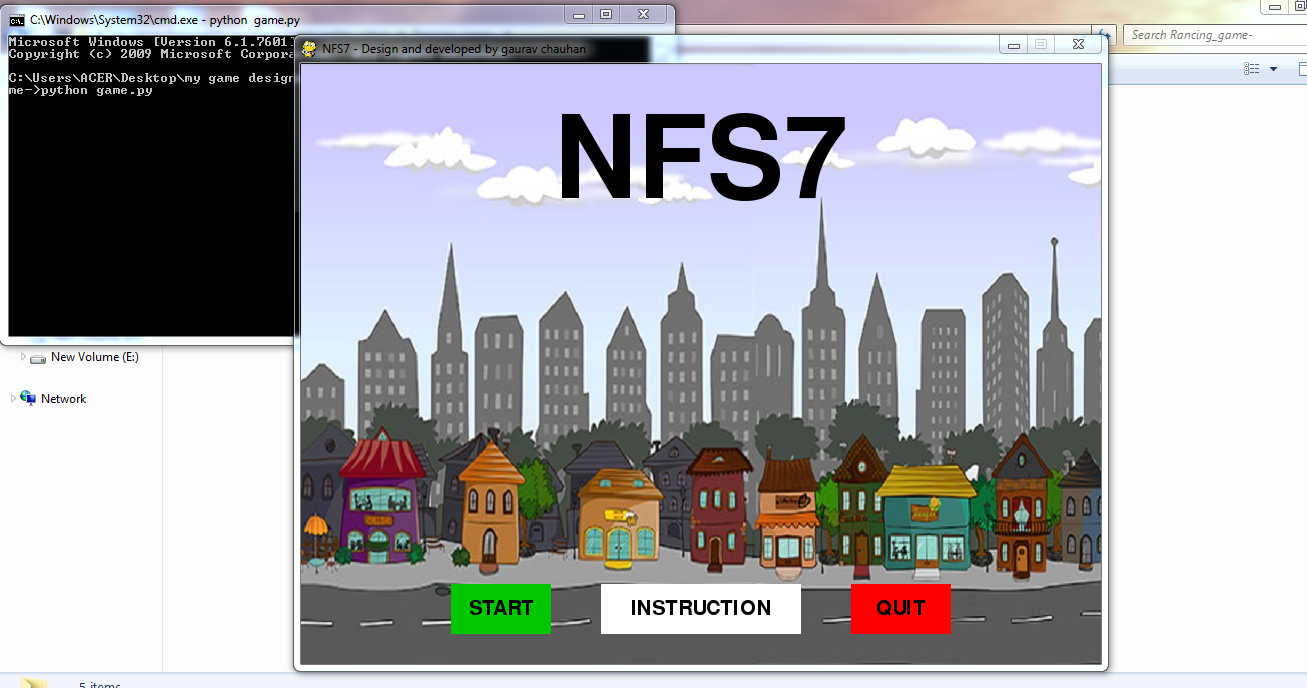
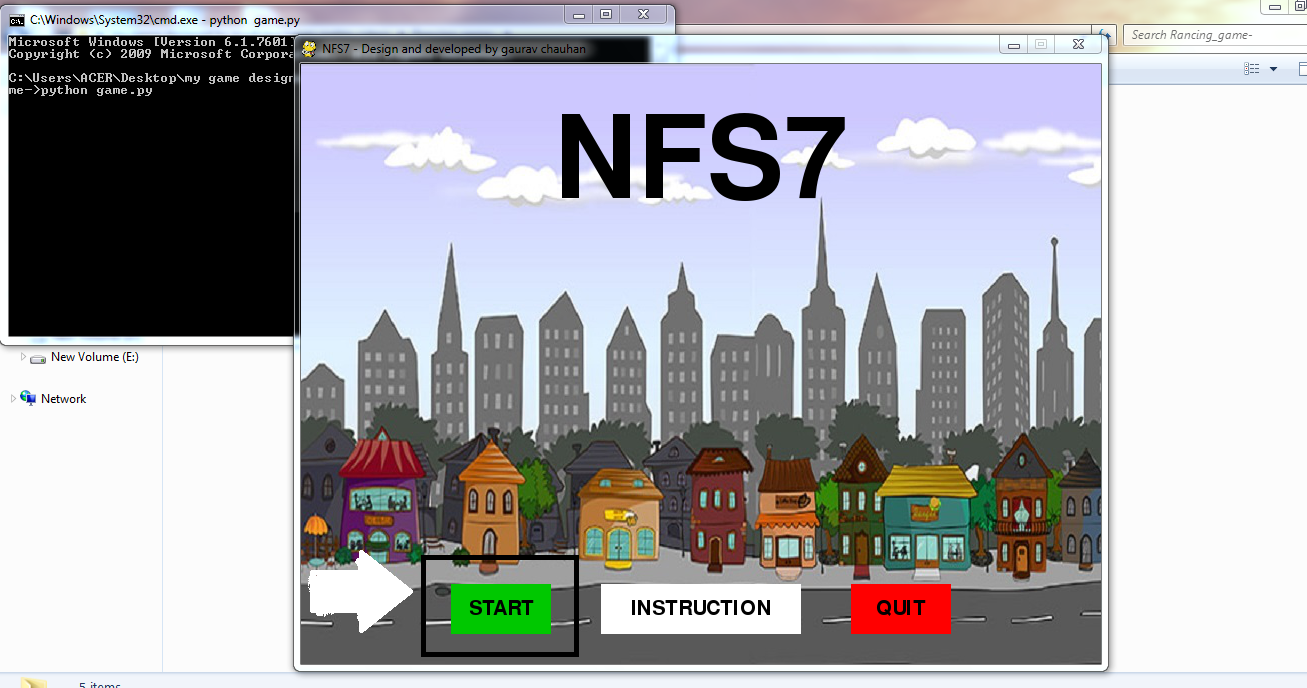
add readmee file

Changed region(s): [[0.2142, 0.7936, 0.4591, 0.9767]]

diff --git a/README.md b/README.md
@@ -7,9 +7,15 @@ Game creation in any programming language is very rewarding, and also makes for 
 ### 2. Matching PyGame version from pip.
 ### Download and install python 3.3+, make sure its on your PATH. Now install pygame!
 
-## pip install pygame
+## * pip install pygame
 
 ### To run interminal type :-python game.py
 
 
 ![Step1](images/start.PNG)
+
+### To start the game click on Start Button
+
+![Step2](images/second.PNG) 
+
+### To read the instruction of the game click on Instruction Button
